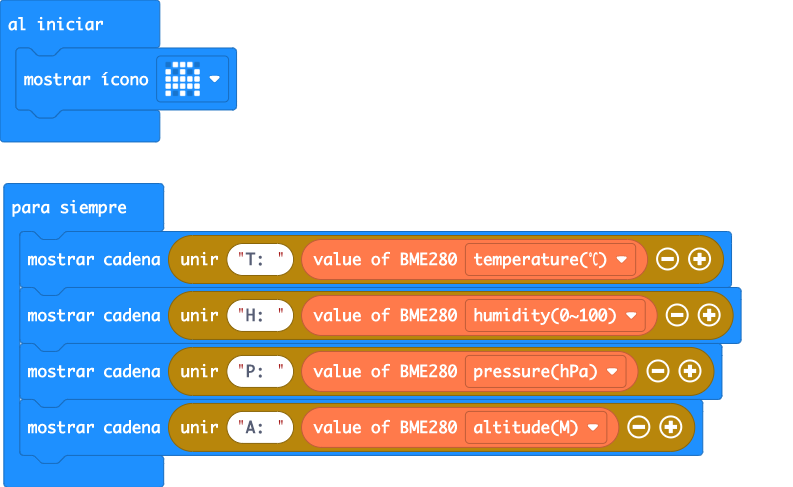
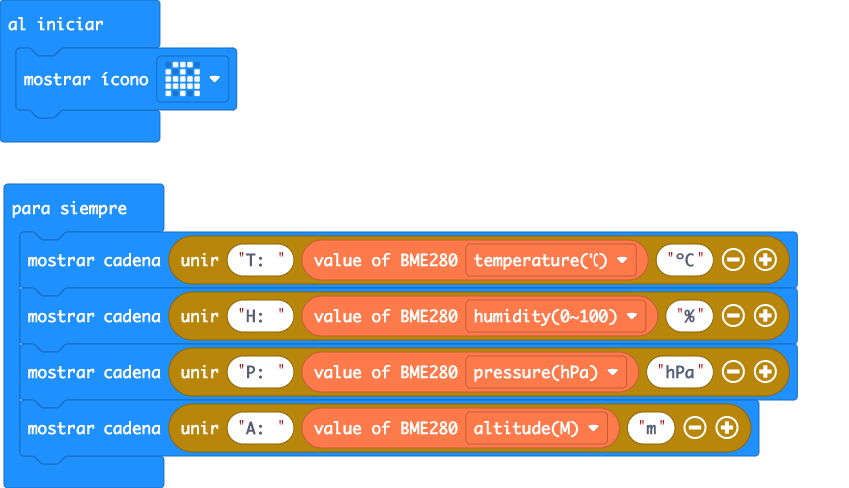
Update main.blocks, main.ts

diff --git a/main.ts b/main.ts
@@ -1,7 +1,7 @@
 basic.showIcon(IconNames.Ghost)
 basic.forever(function () {
-    basic.showString("T: " + Environment.octopus_BME280(Environment.BME280_state.BME280_temperature_C))
-    basic.showString("H: " + Environment.octopus_BME280(Environment.BME280_state.BME280_humidity))
-    basic.showString("P: " + Environment.octopus_BME280(Environment.BME280_state.BME280_pressure))
-    basic.showString("A: " + Environment.octopus_BME280(Environment.BME280_state.BME280_altitude))
+    basic.showString("T: " + Environment.octopus_BME280(Environment.BME280_state.BME280_temperature_C) + "ºC")
+    basic.showString("H: " + Environment.octopus_BME280(Environment.BME280_state.BME280_humidity) + "%")
+    basic.showString("P: " + Environment.octopus_BME280(Environment.BME280_state.BME280_pressure) + "hPa")
+    basic.showString("A: " + Environment.octopus_BME280(Environment.BME280_state.BME280_altitude) + "m")
 })
